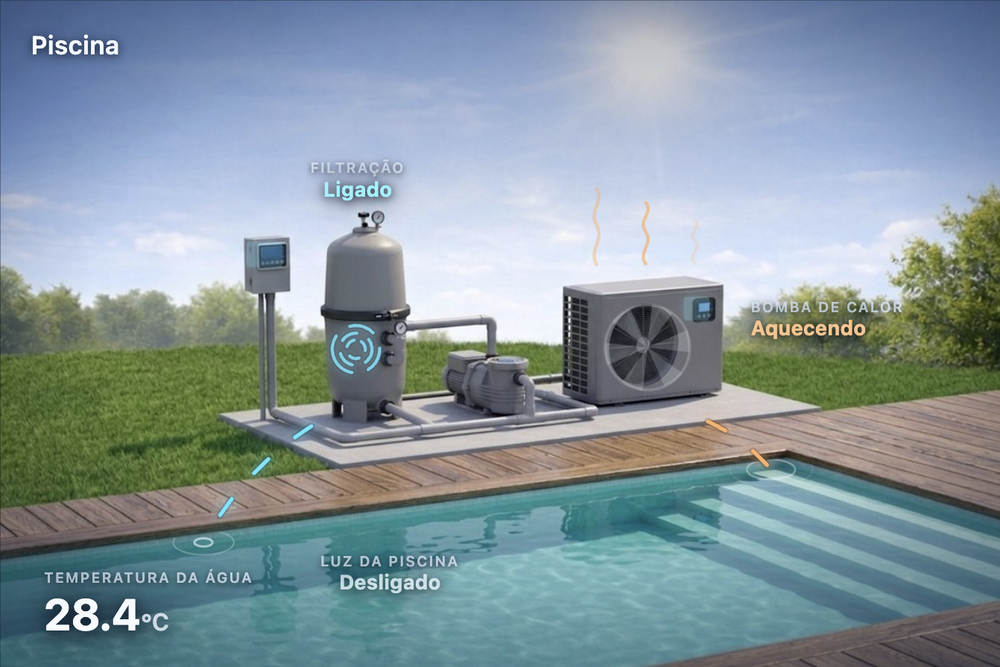
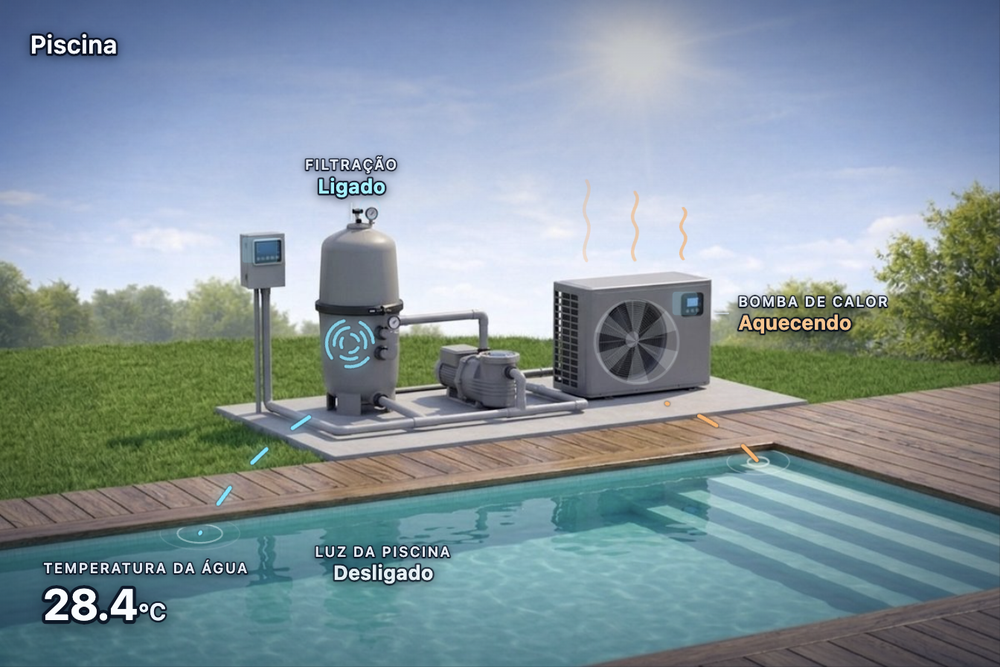
A word has to survive whatever is behind it
The labels were carrying themselves on drop-shadows, which is a blur: over
the sunlit grass and the pale sky of the day scene they thinned to nothing
and the words went grey. Reported from a live dashboard, where the heat
pump's label sat over the treeline and could barely be read.

Every text now takes a real outline — a dark stroke drawn behind the
glyphs, which is what paint-order:stroke was already declared for and
never given a stroke to draw. Width is about a fifth of the type size, so
it carries without reading as bold: 1.9 on the small caps, 2.5 on the
values, 3 on the title, 4.6 on the temperature, and its own 2.6 on the
unit tspan, which inherits the stroke but not a width that suits its size.
The shadows stay, at about half their old weight, for depth rather than
contrast.

The fills come up with it — the small caps from .78 to .94 — and a value
that is off now dims to .88 instead of .72. Off is a state worth reading,
not one to hide. The guide lines get a hairline shadow for the same
reason.

Checked against both scenes and at a normal dashboard column width, where
the small caps are about seven pixels tall and an outline that was any
heavier would close them up.

diff --git a/custom_components/pool_maintenance_tracker/frontend/scene-card.js b/custom_components/pool_maintenance_tracker/frontend/scene-card.js
@@ -1110,37 +1110,53 @@ class PoolSceneCard extends HTMLElement {
       /* --- labels --------------------------------------------------- */
       .node{transition:opacity .3s ease}
       .node.hidden{display:none}
+      /* Every word is read against whatever the photo happens to put behind
+         it — bright sky, sunlit grass, pale concrete. A drop-shadow is a
+         blur, and against a light background it thins to nothing; what
+         holds is a real outline drawn behind the glyphs, which is what
+         paint-order:stroke is for. Stroke width is about a fifth of the
+         type size: enough to carry, not enough to read as bold. */
       text{
         font-family:var(--paper-font-body1_-_font-family,system-ui,sans-serif);
         paint-order:stroke;
+        stroke:rgba(3,12,28,.82);
+        stroke-linejoin:round;
+        stroke-linecap:round;
       }
       .title{
-        font-size:15px;font-weight:600;fill:#f4f9ff;letter-spacing:.01em;
-        filter:drop-shadow(0 1px 3px rgba(2,10,25,.9));
+        font-size:15px;font-weight:600;fill:#f6faff;letter-spacing:.01em;
+        stroke-width:3;
+        filter:drop-shadow(0 1px 3px rgba(2,10,25,.55));
       }
       .node-label{
         font-size:8.5px;font-weight:600;letter-spacing:.09em;
         text-transform:uppercase;text-anchor:middle;
-        fill:rgba(219,235,250,.78);
-        filter:drop-shadow(0 1px 2px rgba(2,10,25,.95));
+        fill:rgba(236,245,255,.94);
+        stroke-width:1.9;
+        filter:drop-shadow(0 1px 2px rgba(2,10,25,.5));
       }
       .node-value{
-        font-size:12px;font-weight:700;text-anchor:middle;fill:#eef6ff;
-        filter:drop-shadow(0 1px 3px rgba(2,10,25,.95))
-               drop-shadow(0 0 8px rgba(2,10,25,.6));
+        font-size:12px;font-weight:700;text-anchor:middle;fill:#f3f9ff;
+        stroke-width:2.5;
+        filter:drop-shadow(0 1px 3px rgba(2,10,25,.55));
       }
       .temp-value{
-        font-size:26px;font-weight:700;text-anchor:middle;fill:#f6fbff;
-        filter:drop-shadow(0 2px 5px rgba(2,10,25,.95))
-               drop-shadow(0 0 12px rgba(2,10,25,.6));
+        font-size:26px;font-weight:700;text-anchor:middle;fill:#f8fcff;
+        stroke-width:4.6;
+        filter:drop-shadow(0 2px 5px rgba(2,10,25,.5));
       }
-      .temp-unit{font-size:14px;font-weight:600;fill:rgba(232,244,255,.82)}
+      /* A tspan inherits the stroke; it needs its own width for its size */
+      .temp-unit{font-size:14px;font-weight:600;fill:#e8f4ff;stroke-width:2.6}
       .at-start{text-anchor:start}
-      .guide{stroke:rgba(219,235,250,.42);stroke-width:1;stroke-linecap:round}
+      .guide{
+        stroke:rgba(226,240,255,.6);stroke-width:1;stroke-linecap:round;
+        filter:drop-shadow(0 0 1.5px rgba(2,10,25,.9));
+      }
       .node.active .node-value{fill:#8ff2ff}
       #node-heat.active .node-value{fill:#ffc287}
       #node-light.active .node-value{fill:#ffe6a8}
-      .node:not(.active) .node-value{opacity:.72}
+      /* Off is still a state worth reading, so it dims a little, not a lot */
+      .node:not(.active) .node-value{opacity:.88}
 
       /* Off screen, none of this is worth a frame. */
       :host(.offscreen) .leg,
